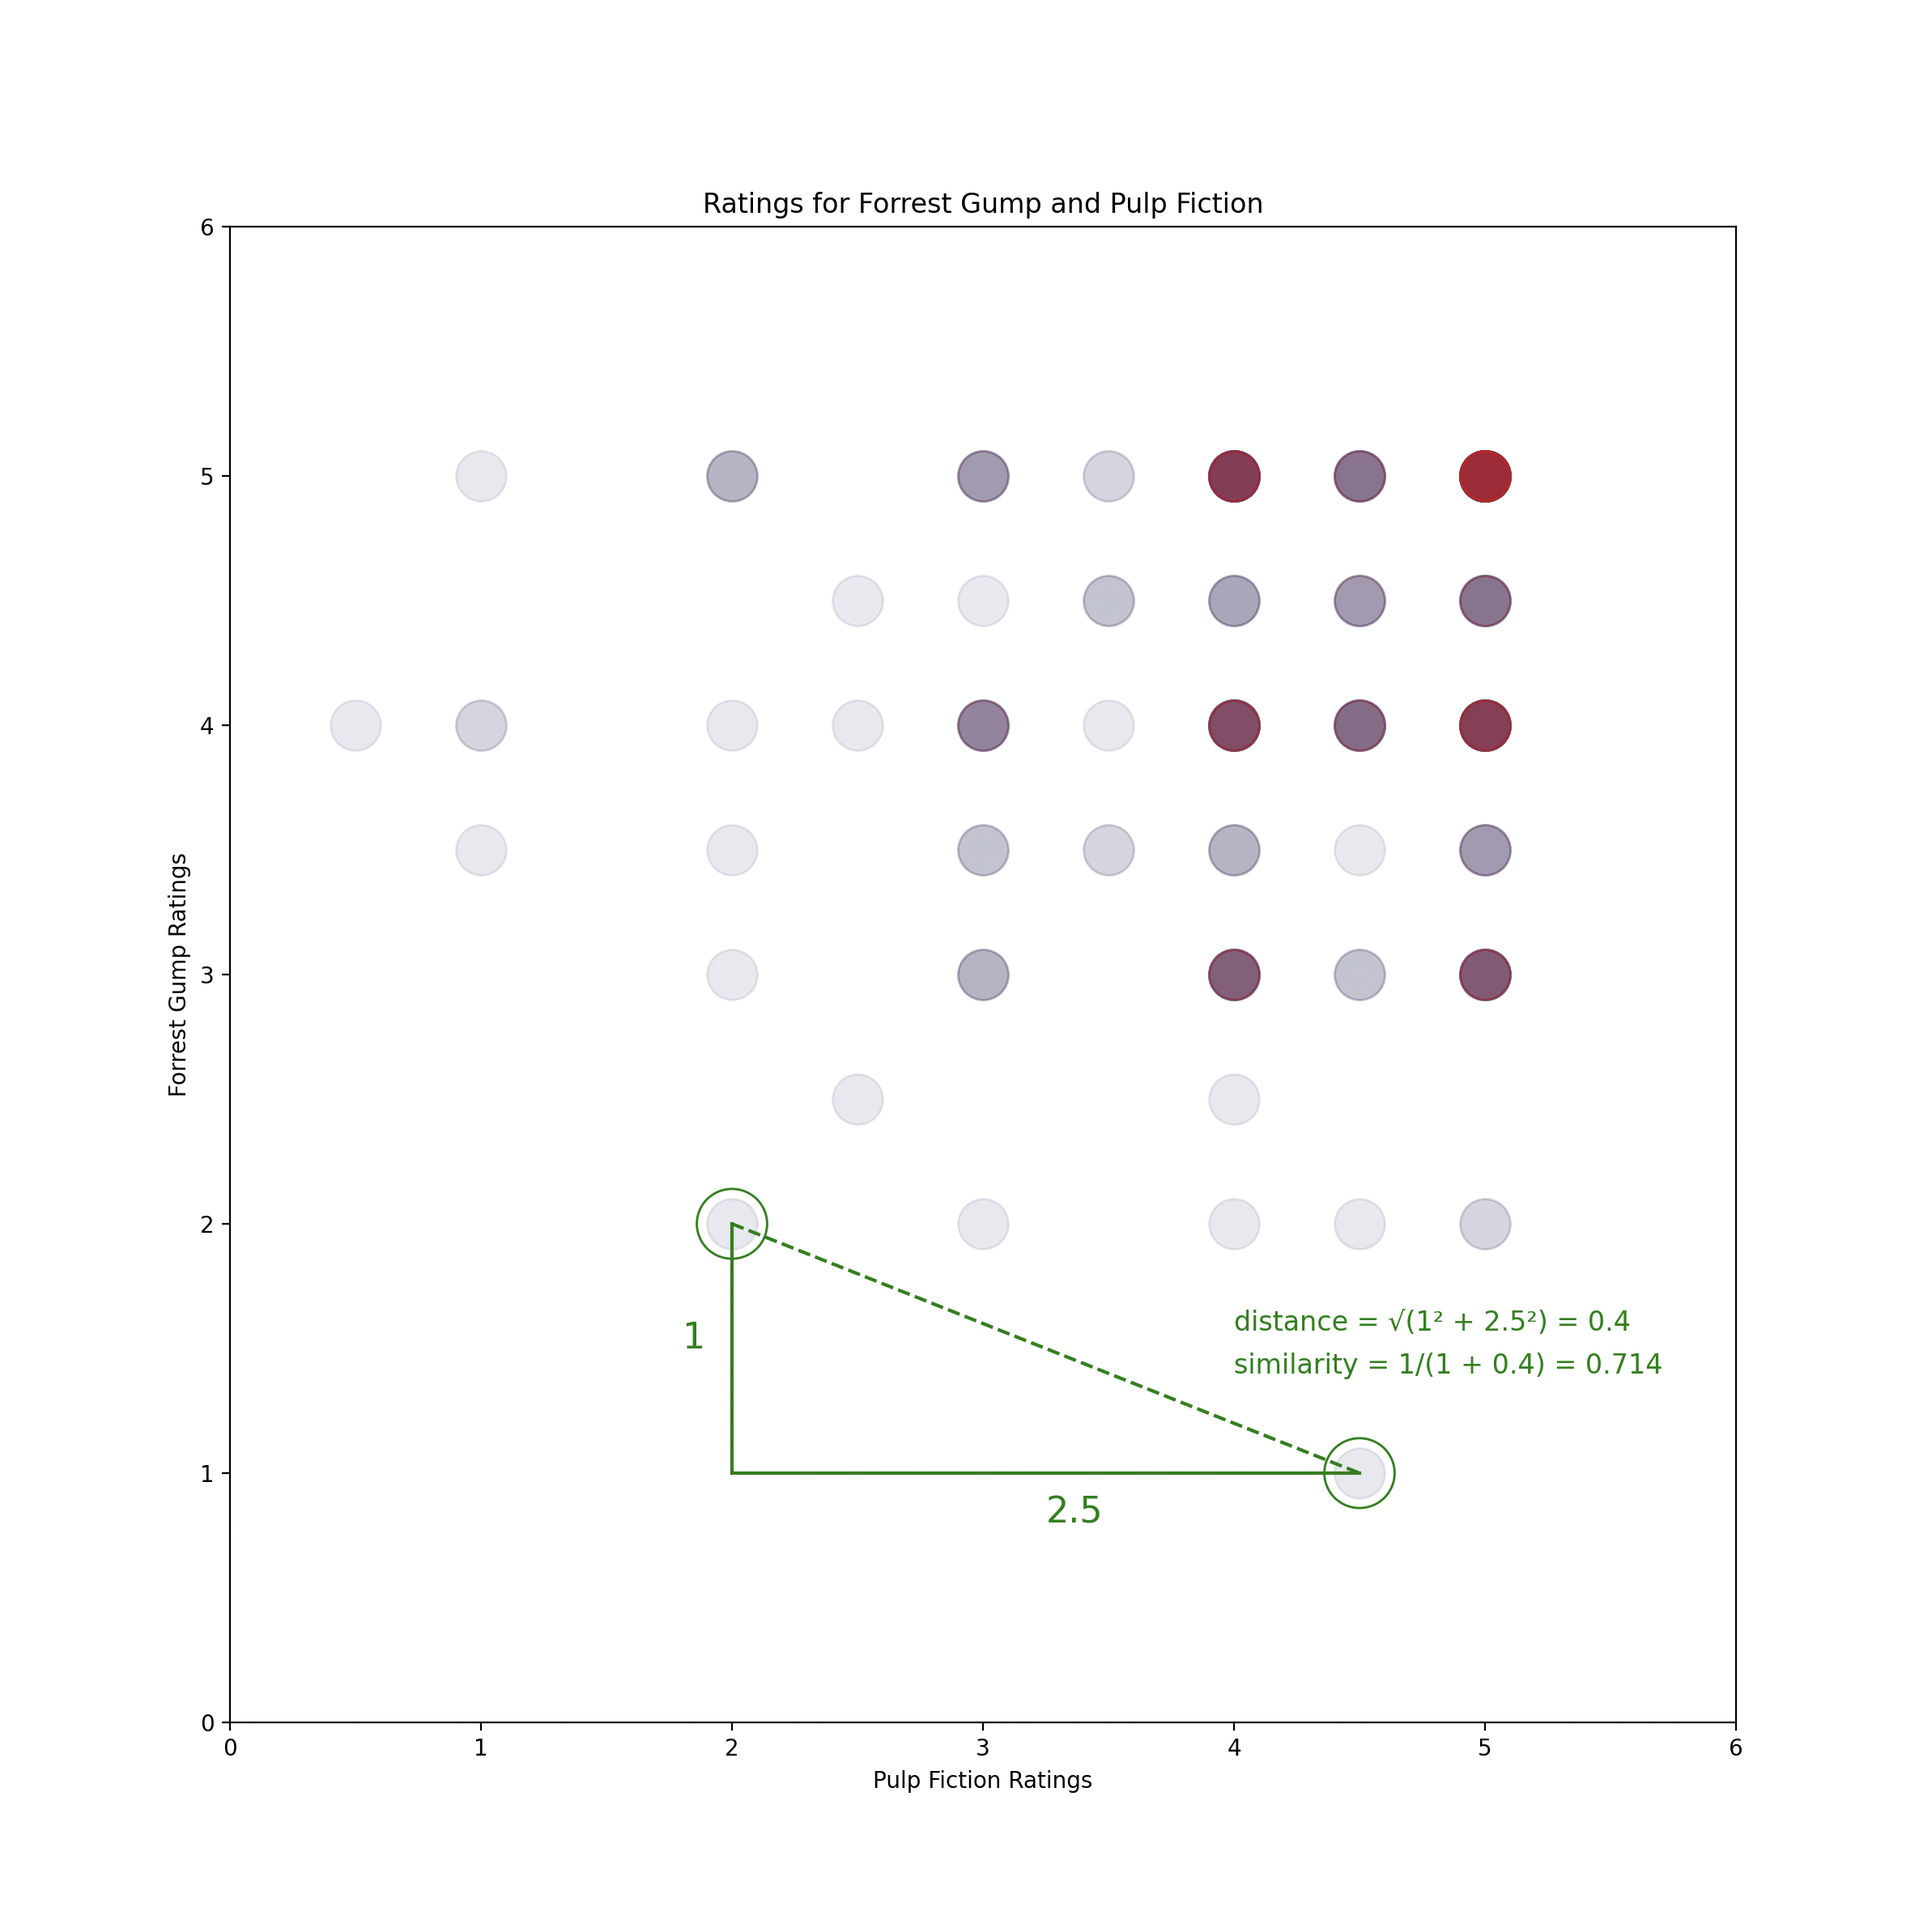
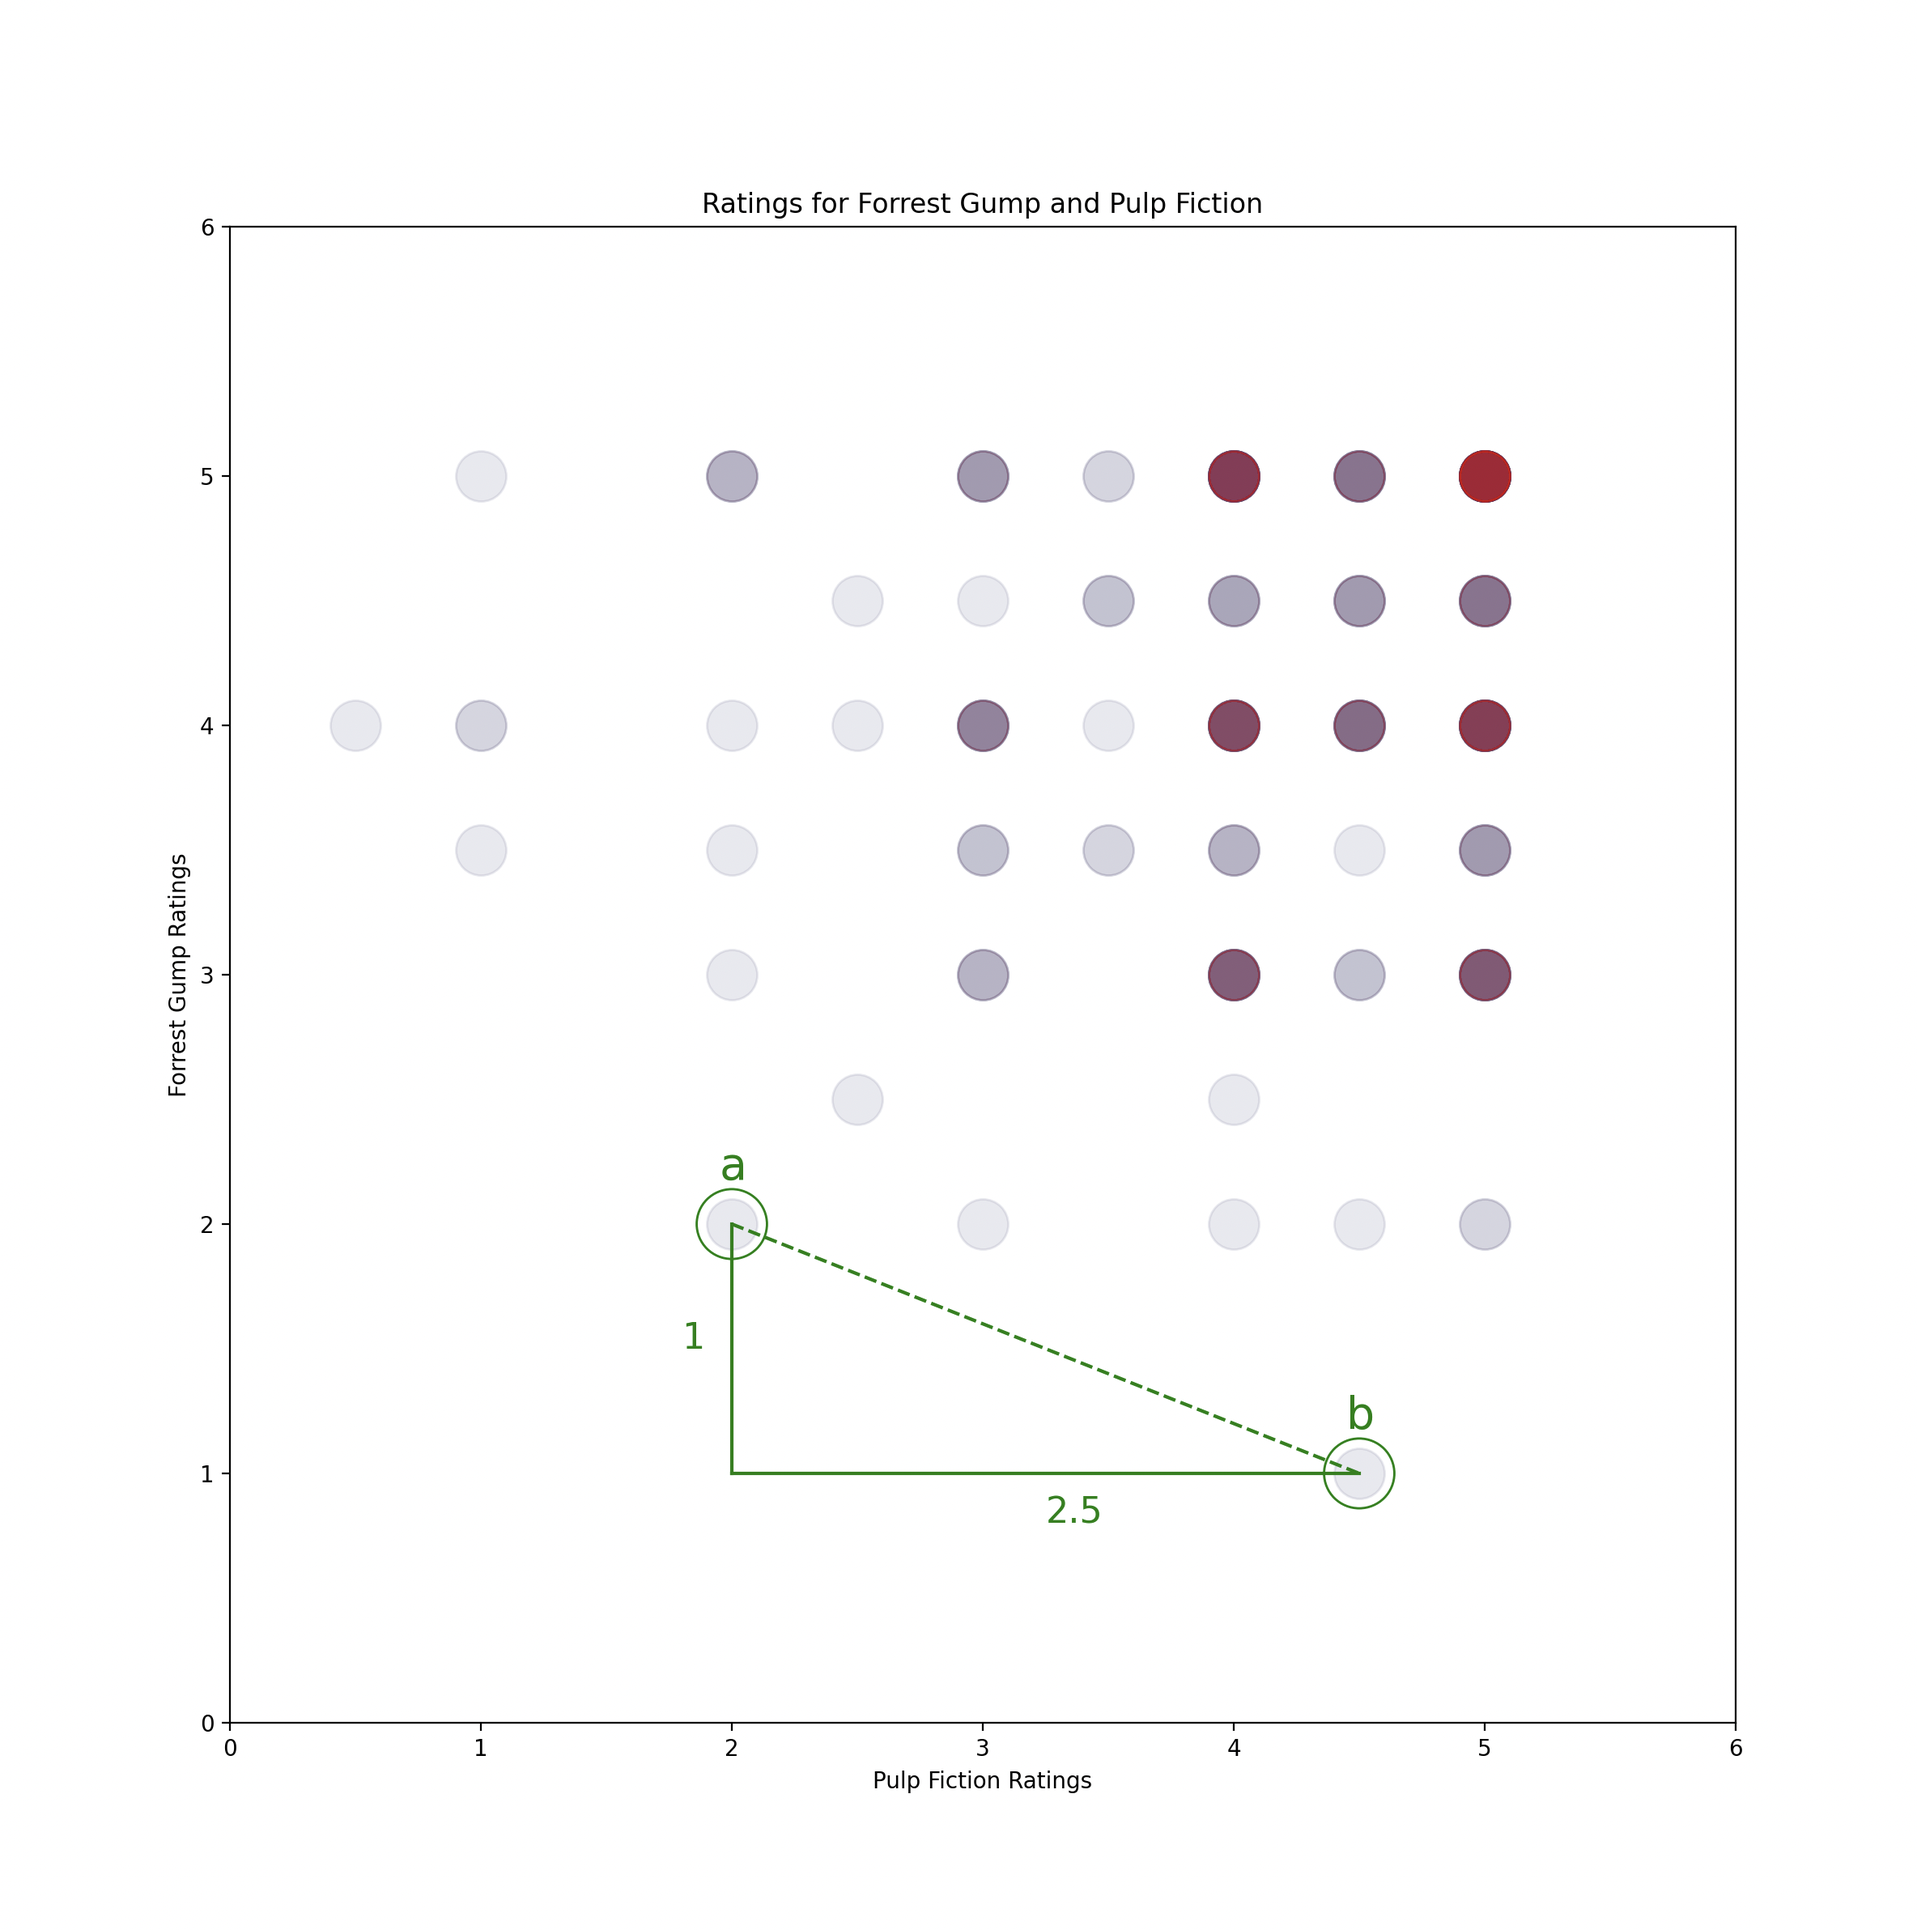
adding pearson corr

diff --git a/nearest_neighbour_algorythm/pearson_correlation.py b/nearest_neighbour_algorythm/pearson_correlation.py
@@ -1,17 +1,18 @@
 # **************************************************************************** #
 #                                                                              #
 #                                                         ::::::::             #
-#    cosign_similarity_example.py                       :+:    :+:             #
+#    pearson_correlation.py                             :+:    :+:             #
 #                                                      +:+                     #
 #    By: quentinbeukelman <quentinbeukelman@stud      +#+                      #
 #                                                    +#+                       #
-#    Created: 2023/04/14 12:33:29 by quentinbeuk   #+#    #+#                  #
-#    Updated: 2023/04/19 13:39:11 by quentinbeuk   ########   odam.nl          #
+#    Created: 2023/04/19 13:51:58 by quentinbeuk   #+#    #+#                  #
+#    Updated: 2023/04/19 14:20:33 by quentinbeuk   ########   odam.nl          #
 #                                                                              #
 # **************************************************************************** #
 
 import matplotlib.pyplot as plt
 import pandas as pd
+import seaborn as sns
 import math
 
 # ==============================================================================: DATA
@@ -40,49 +41,24 @@ def ft_get_data():
 
 # ==============================================================================: PLOT
 def ft_scatter_plot(ratings, pulp_fiction_ratings, forrest_gump_ratings, body_parts_ratings):
-    # Adjust the window size
-    plt.figure(figsize=(12, 12))
+    # Add a jointplot to show the distribution of ratings for each movie
+    joint_plot = sns.jointplot(data=ratings, x="rating_pulp", y="rating_gump", kind="kde", height=12)
 
-    # Plot a line from the origin to the point with the circle around it
-    plt.plot([0, 5], [0, 4], color='green', linestyle='--')
-    plt.plot([0, 3], [0, 4], color='green', linestyle='--')
+    # Add a regression line to the jointplot
+    sns.regplot(data=ratings, x="rating_pulp", y="rating_gump", ax=joint_plot.ax_joint, scatter=False, color='red')
 
-    # Create a scatter plot of the ratings for Forrest Gump and Pulp Fiction
-    plt.scatter(ratings['rating_pulp'], ratings['rating_gump'], alpha=0.1, s=500)
-
-    # Mark the ratings for users who have also rated "Body Parts (1991)" in blue
-    # and for those who haven't in red
-    common_users = set(pulp_fiction_ratings['userId']).intersection(forrest_gump_ratings['userId'])
-    for user_id in common_users:
-        matrix_rating = body_parts_ratings[(body_parts_ratings['userId'] == user_id)]['rating'].iloc[0] if body_parts_ratings[(body_parts_ratings['userId'] == user_id)].shape[0] > 0 else None
-        if matrix_rating:
-            color = 'blue'
-        else:
-            color = 'red'
-        user_ratings = ratings[ratings['userId'] == user_id]
-        plt.scatter(user_ratings['rating_pulp'], user_ratings['rating_gump'], color=color, alpha=0.03, s=500)
-
-    plt.text(1, 1, r'θ', color='green', fontsize=30)
-    plt.text(4.95, 4.18, r'b', color='green', fontsize=20)
-    plt.text(2.95, 4.18, r'a', color='green', fontsize=20)
-    
     # Set the plot title and axis labels
-    plt.title('Ratings for Forrest Gump and Pulp Fiction')
+    plt.subplots_adjust(top=0.95) # to avoid title overlap with plot
     plt.xlabel('Pulp Fiction Ratings')
     plt.ylabel('Forrest Gump Ratings')
-
-    # Set the y-axis range to 0-5
-    plt.ylim(0, 6)
-    plt.xlim(0, 6)
-
-    # Draw a circle around the point at x=5, y=4
-    circle_00 = plt.Circle((5, 4), radius=0.14, color='green', fill=False)
-    circle_01 = plt.Circle((3, 4), radius=0.14, color='green', fill=False)
-    plt.gca().add_patch(circle_00)
-    plt.gca().add_patch(circle_01)
+    plt.title('Pulp Fiction and Forrest Gump Ratings Scatter Plot with Regression Line')
 
     # Show the plot
     plt.show()
+
+
+
+    
     
 
 # ==============================================================================: MAIN

diff --git a/nearest_neighbour_algorythm/euclidean_similarity_example.py b/nearest_neighbour_algorythm/euclidean_similarity_example.py
@@ -6,7 +6,7 @@
 #    By: quentinbeukelman <quentinbeukelman@stud      +#+                      #
 #                                                    +#+                       #
 #    Created: 2023/04/16 09:28:22 by quentinbeuk   #+#    #+#                  #
-#    Updated: 2023/04/19 10:14:38 by quentinbeuk   ########   odam.nl          #
+#    Updated: 2023/04/19 13:46:20 by quentinbeuk   ########   odam.nl          #
 #                                                                              #
 # **************************************************************************** #
 
@@ -81,8 +81,8 @@ def ft_scatter_plot(ratings, pulp_fiction_ratings, forrest_gump_ratings, body_pa
     plt.text(1.8, 1.5, r'1', color='green', fontsize=16)
     plt.text(3.25, 0.8, r'2.5', color='green', fontsize=16)
     
-    plt.text(4, 1.57, r'distance = √(1² + 2.5²) = 0.4', color='green', fontsize=12)
-    plt.text(4, 1.4, r'similarity = 1/(1 + 0.4) = 0.714', color='green', fontsize=12)
+    plt.text(1.95, 2.18, r'a', color='green', fontsize=20)
+    plt.text(4.45, 1.18, r'b', color='green', fontsize=20)
 
     # Show the plot
     plt.show()

diff --git a/nearest_neighbour_algorythm/README.md b/nearest_neighbour_algorythm/README.md
@@ -137,7 +137,26 @@ Neighborhood-based methods for making recommendations involve using user-user or
 
 If the user has given a rating for the third movie "Body Parts", points are blue, otherwise red.
 
-$$\cos(\mathbf{A},\mathbf{B}) = \frac{\mathbf{A} \cdot \mathbf{B}}{\|\mathbf{A}\| \|\mathbf{B}\|}$$
+$$\cos(\mathbf{a},\mathbf{b}) = \frac{\mathbf{a} \cdot \mathbf{b}}{\|\mathbf{a}\| \|\mathbf{b}\|}$$
+
+Consider the table below, with ratings 0 - 10:
+
+|  | **i1** | **i2** | **i3** | **i4** | **i5** | **i6** |
+| --- | --- | --- | --- | --- | --- | --- |
+| **u1** | 7 | 6 | 7 | 4 | 5 | 4 |
+| **u1** | 6 | 7 | ? | 4 | 3 | 4 |
+| **u1** | <span style="color:red"> **?** </span> | 3 | 3 | 1 | 1 | ? |
+| **u1** | 1 | 2 | 2 | 3 | 3 | 4 |
+| **u1** | 1 | ? | 1 | 2 | 3 | 3 |
+
+<br />
+
+
+The first step is to compute the similarity between user 3 and all the other users. Cosign (1, 3) is calculated as:
+
+$$
+\cos(1,3) = \frac{6 \cdot 3 + 7 \cdot 3 + 4 \cdot 1 + 5 \cdot 1}{\sqrt{62 + 72 + 42 + 52} \cdot \sqrt{3^2 + 3^2 + 1^2 + 1^2}} = 0.956
+$$
 
 
 ![2D Utility Matirx Heatmap](../media/cosign_similarity_simple.png)
@@ -147,7 +166,13 @@ $$\cos(\mathbf{A},\mathbf{B}) = \frac{\mathbf{A} \cdot \mathbf{B}}{\|\mathbf{A}\
 
 ### Euclidean Similarity (user-based)
 
-$$similarity_{euclidean}(a, b) = \frac{1}{1 + \sqrt{\sum_{i=1}^{n}(a_i - b_i)^2}}$$
+$$
+distance = √(1² + 2.5²) = 0.4
+$$
+
+$$
+similarity = 1/(1 + 0.4) = 0.714
+$$
 
 ![2D Utility Matirx Heatmap](../media/euclidean_similarity_simple.png)
 
@@ -157,6 +182,7 @@ $$similarity_{euclidean}(a, b) = \frac{1}{1 + \sqrt{\sum_{i=1}^{n}(a_i - b_i)^2}
 
 ### Pearson Corrolation (item-based)
 
+![2D Utility Matirx Heatmap](../media/pearson_correlation_simple.png)
 
 <br />
 
@@ -182,29 +208,6 @@ It produces a list of the top k = 10 recommended movies.
 
 <br />
 
-
-### Simple Example
-
-Consider the table below, with ratings 0 - 10:
-
-|  | **i1** | **i2** | **i3** | **i4** | **i5** | **i6** |
-| --- | --- | --- | --- | --- | --- | --- |
-| **u1** | 7 | 6 | 7 | 4 | 5 | 4 |
-| **u1** | 6 | 7 | ? | 4 | 3 | 4 |
-| **u1** | <span style="color:red"> **?** </span> | 3 | 3 | 1 | 1 | ? |
-| **u1** | 1 | 2 | 2 | 3 | 3 | 4 |
-| **u1** | 1 | ? | 1 | 2 | 3 | 3 |
-
-<br />
-
-
-The first step is to compute the similarity between user 3 and all the other users. Cosign (1, 3) is calculated as:
-
-$$
-\cos(1,3) = \frac{6 \cdot 3 + 7 \cdot 3 + 4 \cdot 1 + 5 \cdot 1}{\sqrt{62 + 72 + 42 + 52} \cdot \sqrt{3^2 + 3^2 + 1^2 + 1^2}} = 0.956
-$$
-
-<br />
 
 
 Simalarity to u3:
